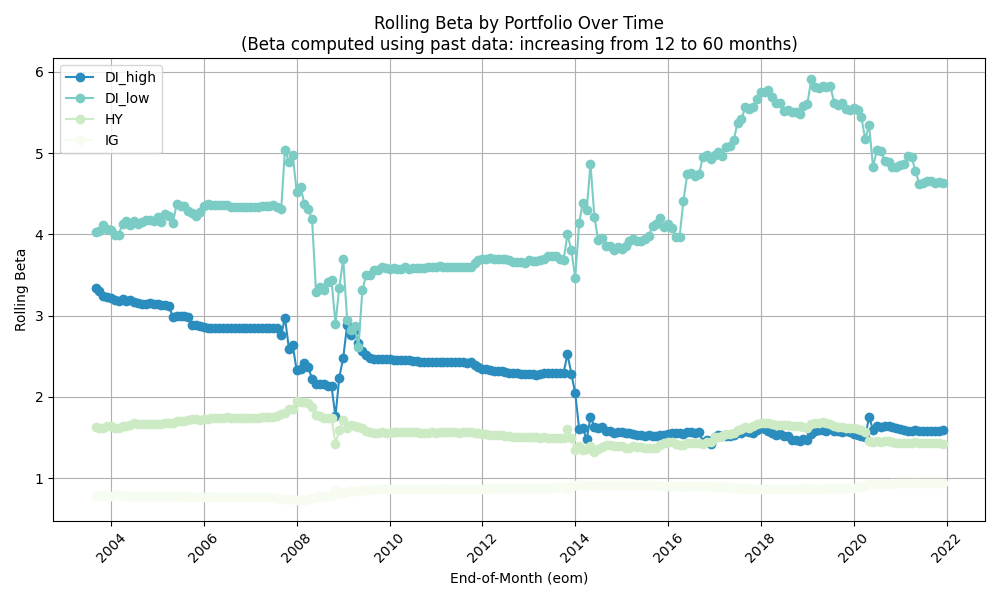
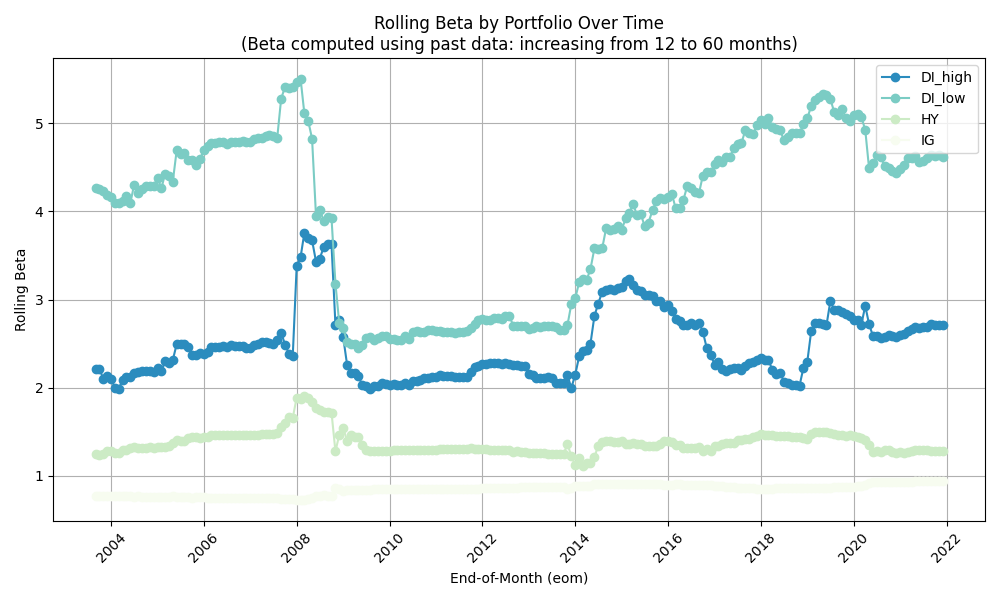
Small changes

diff --git a/py_code/alpha_code.py b/py_code/alpha_code.py
@@ -7,46 +7,45 @@ import numpy as np
 from fredapi import Fred
 fred = Fred(api_key='01b2825140d39531d70a035eaf06853d')
 import statsmodels.api as sm
+from datetime import datetime
 
 #Set the working directory
 project_dir = os.getcwd()   # Change to your project directory
 data_folder = project_dir + "/data"
 
 ### Getting data
-model_data = pd.read_csv(data_folder + "/preprocessed/model_data.csv")
+model_data = pd.read_csv(data_folder + "/preprocessed/bond_data.csv")
 stock_returns = pd.read_csv(data_folder + "/raw/stock_market_returns.csv")
 long_term_gvt_bond_data = pd.read_csv(data_folder + "/raw/long_term_gvt_bond_data.csv")
 t1m_daily = fred.get_series('DGS1MO') / 100  # Convert from % to decimal
 
 ### Creating portfolios
 model_data['eom'] = pd.to_datetime(model_data['eom'])
+model_data['offering_date'] = pd.to_datetime(model_data['offering_date'])
 unique_months = model_data['eom'].unique()
 
 # Add portfolio to the model_data 
 model_data['portfolio'] = np.nan
-#model_data.loc[model_data['credit_spread_start'] > 0.1, 'portfolio'] = 'DI'
-model_data.loc[model_data['distressed_rating_start'] == True , 'portfolio'] = 'DI'
+model_data.loc[model_data['credit_spread_start'] > 0.1, 'portfolio'] = 'DI'
+#model_data.loc[model_data['distressed_rating_start'] == True , 'portfolio'] = 'DI'
 model_data.loc[model_data['portfolio'].isnull() & (model_data['rating_class_start'] == '0.IG'), 'portfolio'] = 'IG'
 model_data.loc[model_data['portfolio'].isnull() & (model_data['rating_class_start'] == '1.HY'), 'portfolio'] = 'HY'
 
-# Now split DI into DI_high and DI_low based on price_eom_start
-for month in unique_months:
-    di_mask = (model_data['eom'] == month) & (model_data['portfolio'] == 'DI')
-    di_bonds = model_data.loc[di_mask]
+# # Split DI into DI_low and DI_high based on cap_gain_overhang_start threshold (-5)
+# for month in unique_months:
+#     # Filter for DI bonds in the current month
+#     di_mask = (model_data['eom'] == month) & (model_data['portfolio'] == 'DI')
+#     di_bonds = model_data.loc[di_mask]
     
-    if len(di_bonds) > 0:
-        # Sort DI bonds by price_eom_start descending
-        di_bonds_sorted = di_bonds.sort_values('price_eom_start', ascending=False)
+#     if len(di_bonds) > 0:
+#         # Assign DI_high to bonds with cap_gain_overhang_start > -5
+#         high_indices = di_bonds[di_bonds['cap_gain_overhang_start'] > -10].index
         
-        # Find the number to split
-        split_index = len(di_bonds_sorted) // 2
+#         # Assign DI_low to bonds with cap_gain_overhang_start <= -5
+#         low_indices = di_bonds[di_bonds['cap_gain_overhang_start'] <= -10].index
         
-        # Assign DI_high and DI_low
-        high_indices = di_bonds_sorted.index[:split_index]
-        low_indices = di_bonds_sorted.index[split_index:]
-        
-        model_data.loc[high_indices, 'portfolio'] = 'DI_high'
-        model_data.loc[low_indices, 'portfolio'] = 'DI_low'
+#         model_data.loc[high_indices, 'portfolio'] = 'DI_high'
+#         model_data.loc[low_indices, 'portfolio'] = 'DI_low'
 
 ### Calculating returns for portfolios
 groups = model_data['portfolio'].dropna().unique().tolist()
@@ -174,7 +173,7 @@ texc_returns_df = pd.DataFrame(group_ret_texc, index=pd.to_datetime(date_series)
 texc_returns_df['market_ret_texc'] = market_ret_texc
 texc_returns_df.index.name = 'date'
 texc_regression_df = texc_returns_df.iloc[:]
-texc_regression_df = texc_regression_df * 12
+#texc_regression_df = texc_regression_df * 12
 
 # Define the independent variable (market excess return) and add a constant
 X = sm.add_constant(texc_regression_df[['market_ret_texc']])
@@ -198,20 +197,20 @@ exc_returns_df = exc_returns_df.join(stock_returns[['stock_ret_exc']], how='left
 exc_regression_df = exc_returns_df.iloc[:]
 #exc_regression_df = exc_regression_df * 12
 
-# Define the independent variable (market excess return) and add a constant
-X = sm.add_constant(exc_regression_df[['market_ret_texc', 'term', 'stock_ret_exc']])
+# # Define the independent variable (market excess return) and add a constant
+# X = sm.add_constant(exc_regression_df[['market_ret_texc', 'term', 'stock_ret_exc']])
 
-# Store results in a dictionary
-exc_regression_results = {}
+# # Store results in a dictionary
+# exc_regression_results = {}
 
-# Loop through each portfolio and run the regression
-for portfolio in groups: 
-    y = exc_regression_df[portfolio]
-    model = sm.OLS(y, X).fit(cov_type='HAC', cov_kwds={'maxlags': 4})
-    exc_regression_results[portfolio] = model
-    print(f"Regression results using ret_exc for {portfolio}:\n{model.summary()}\n")
+# # Loop through each portfolio and run the regression
+# for portfolio in groups: 
+#     y = exc_regression_df[portfolio]
+#     model = sm.OLS(y, X).fit(cov_type='HAC', cov_kwds={'maxlags': 4})
+#     exc_regression_results[portfolio] = model
+#     print(f"Regression results using ret_exc for {portfolio}:\n{model.summary()}\n")
 
-print(exc_regression_df.head())
+print(texc_regression_df)
 
 # # Shape ratios
 # print(exc_regression_df.tail())

diff --git a/py_code/dataset.py b/py_code/dataset.py
@@ -5,6 +5,7 @@ import seaborn as sns
 import numpy as np
 from fredapi import Fred
 fred = Fred(api_key='01b2825140d39531d70a035eaf06853d')
+from datetime import datetime
 
 #Set the working directory
 project_dir = os.getcwd()   # Change to your project directory
@@ -201,6 +202,82 @@ new_order = ['eom', 'cusip', 'market_value', 'ret_exc','ret_texc','yield',
                                    'credit_spread_start','market_value_start','distressed_rating',
                                    'distressed_rating_start','distressed_spread','distressed_spread_start']
 bond_data_large_warga = bond_data_large_warga[new_order]
+
+#Calculating capital gain overhang for bond_data
+cap_gain_data = wrds_data[['eom', 'cusip', 'price_eom', 'offering_date']]
+print("Calculating capital gain overhang (CGO)...")
+cap_gain_data['offering_date'] = pd.to_datetime(cap_gain_data['offering_date'])
+monthly_turnover = 0.015 #using quarterly turnover of 4.5% from Peter's paper
+
+def compute_effective_purchase_price_exponential(group):
+    """
+    For a given bond (grouped by 'cusip'), compute the effective purchase price and 
+    capital gain overhang for each month, using an exponentially decaying approach 
+    that assigns the largest weight to the earliest date (k=0).
+
+    Logic:
+      - For i data points (i.e., up to index i-1),
+        earliest date gets (1 - p)^(i-1),
+        date k in [1..i-1] gets p * (1 - p)^(i-1 - k),
+        sum of weights = 1.
+      - p = monthly_turnover
+    """
+    group = group.sort_values('eom').copy()
+    
+    effective_prices = [group.iloc[0]['price_eom']]
+    cgo_values = [0.0]
+
+    
+    for i in range(1, len(group)):
+        # We have i observations so far: 0, 1, ..., i-1
+        # The earliest observation is index 0, the newest is index i-1
+        n = i  # number of past observations
+        p = monthly_turnover
+        
+        # Create an array of length n for the weights
+        # k=0 => earliest date
+        # k=1..n-1 => subsequent dates
+        weights = np.zeros(n)
+        
+        # earliest date gets (1 - p)^(n-1)
+        weights[0] = (1 - p)**(n - 1)
+        
+        # for k in [1..n-1], w_k = p * (1 - p)^(n-1 - k)
+        for k in range(1, n):
+            weights[k] = p * (1 - p)**(n - 1 - k)
+        
+        # The i-th row in group corresponds to the 'current' date
+        # The 'past_prices' are the prices from index 0..(i-1)
+        past_prices = group.iloc[:i]['price_eom'].values
+
+         # Apply the condition to adjust price_eom for k=0
+        if group.iloc[0]['offering_date'] < datetime(2002, 7, 31):
+            past_prices[0] = 100
+        
+        # Weighted sum of the past prices
+        effective_price = np.sum(weights * past_prices)
+        effective_prices.append(effective_price)
+        
+        # Current price is the price at row i
+        current_price = group.iloc[i]['price_eom']
+        cgo = (current_price / effective_price - 1) * 100
+        cgo_values.append(cgo)
+    
+    group['effective_price'] = effective_prices
+    group['cap_gain_overhang'] = cgo_values
+    return group
+
+print('Applying the function group-wise by bond (cusip) ...')
+cap_gain_data = cap_gain_data.sort_values(['cusip', 'eom'])
+cap_gain_data = cap_gain_data.groupby('cusip').apply(compute_effective_purchase_price_exponential).reset_index(drop=True)
+cap_gain_data['cap_gain_overhang_start'] = cap_gain_data['cap_gain_overhang'].shift(1)
+
+bond_data = pd.merge(
+    bond_data,
+    cap_gain_data[['cusip', 'eom', 'cap_gain_overhang_start']],
+    on=['cusip', 'eom'],
+    how='left'
+)
 
 # Save the data
 bond_data.to_csv("data/preprocessed/bond_data.csv")

diff --git a/py_code/model_setup_split.py b/py_code/model_setup_split.py
@@ -23,8 +23,7 @@ data_folder = project_dir + "/data"
 figures_folder = project_dir + "/figures"
 
 # Importing the cleaned data
-bond_data = pd.read_csv(data_folder + "/preprocessed/bond_data.csv")
-model_data = pd.read_csv(data_folder + "/preprocessed/model_data.csv")
+model_data = pd.read_csv(data_folder + "/preprocessed/bond_data.csv")
 model_data['eom'] = pd.to_datetime(model_data['eom'])
 model_data['offering_date'] = pd.to_datetime(model_data['offering_date'])
 
@@ -32,39 +31,34 @@ model_data['offering_date'] = pd.to_datetime(model_data['offering_date'])
 #                     a. Set up portfolios by month        
 # ===================================================================
 print("Setting up portfolios by month...")                                                         
-bond_data['eom'] = pd.to_datetime(model_data['eom'])
+model_data['eom'] = pd.to_datetime(model_data['eom'])
 unique_months = model_data['eom'].unique()
 portfolio_by_month = {}
 
-# Add portfolio to the model_data 
+# Add portfolio to the model_data
 model_data['portfolio'] = np.nan
-#model_data.loc[model_data['credit_spread_start'] > 0.1, 'portfolio'] = 'DI'
-model_data.loc[model_data['distressed_rating_start'] == True , 'portfolio'] = 'DI'
+model_data.loc[model_data['credit_spread_start'] > 0.1, 'portfolio'] = 'DI'
+#model_data.loc[model_data['distressed_rating_start'] == True , 'portfolio'] = 'DI'
 model_data.loc[model_data['portfolio'].isnull() & (model_data['rating_class_start'] == '0.IG'), 'portfolio'] = 'IG'
 model_data.loc[model_data['portfolio'].isnull() & (model_data['rating_class_start'] == '1.HY'), 'portfolio'] = 'HY'
 model_data.to_csv("data/preprocessed/model_data_split.csv")
 print("Done setting up portfolios")
 
-# Now split DI into DI_high and DI_low based on price_eom_start
+# Split DI into DI_low and DI_high based on cap_gain_overhang_start threshold (-10)
 for month in unique_months:
+    # Filter for DI bonds in the current month
     di_mask = (model_data['eom'] == month) & (model_data['portfolio'] == 'DI')
     di_bonds = model_data.loc[di_mask]
     
     if len(di_bonds) > 0:
-        # Sort DI bonds by price_eom_start descending
-        di_bonds_sorted = di_bonds.sort_values('price_eom_start', ascending=False)
+        # Assign DI_high to bonds with cap_gain_overhang_start > -5
+        high_indices = di_bonds[di_bonds['cap_gain_overhang_start'] > -10].index
         
-        # Find the number to split
-        split_index = len(di_bonds_sorted) // 2
-        
-        # Assign DI_high and DI_low
-        high_indices = di_bonds_sorted.index[:split_index]
-        low_indices = di_bonds_sorted.index[split_index:]
+        # Assign DI_low to bonds with cap_gain_overhang_start <= -5
+        low_indices = di_bonds[di_bonds['cap_gain_overhang_start'] <= -10].index
         
         model_data.loc[high_indices, 'portfolio'] = 'DI_high'
         model_data.loc[low_indices, 'portfolio'] = 'DI_low'
-
-
 # ===================================================================    
 #             b. Calculate monthly portfolio weighted returns        
 # ===================================================================
